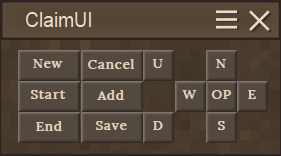
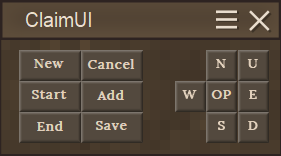
Version 1.0.1: Adjust UI button positioning and update screenshot
- Reposition U/D buttons for better layout
- Update in-game screenshot with new layout
- Increment version to 1.0.1

diff --git a/src/Dialog/GuiDialogClaimUI.cs b/src/Dialog/GuiDialogClaimUI.cs
@@ -77,8 +77,8 @@ namespace ClaimUI
                     radialRoot.CopyOffsetedSibling(-100, 0, 25),    // [3] Add
                     radialRoot.CopyOffsetedSibling(-100, -25, 25),  // [4] Cancel
                     radialRoot.CopyOffsetedSibling(-100, 25, 25),   // [5] Save
-                    radialRoot.CopyOffsetedSibling(-25, -25),       // [6] U (Up)
-                    radialRoot.CopyOffsetedSibling(-25, 25),        // [7] D (Down)
+                    radialRoot.CopyOffsetedSibling(25, -25),        // [6] U (Up)
+                    radialRoot.CopyOffsetedSibling(25, 25),         // [7] D (Down)
                     radialRoot.CopyOffsetedSibling(0, -25),         // [8] N (North)
                     radialRoot.CopyOffsetedSibling(0, 25),          // [9] S (South)
                     radialRoot.CopyOffsetedSibling(25, 0),          // [10] E (East)
